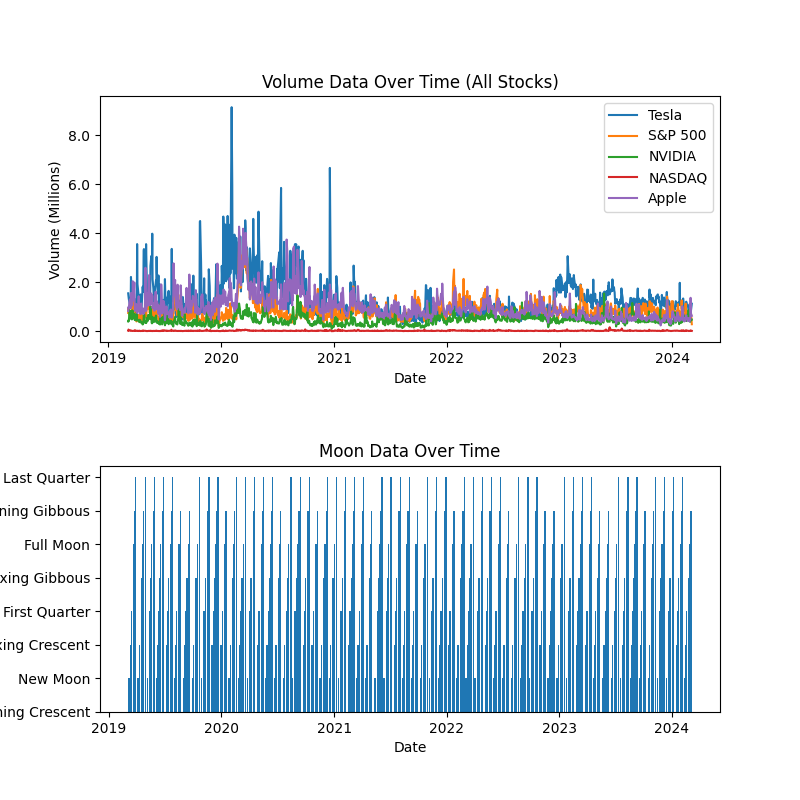
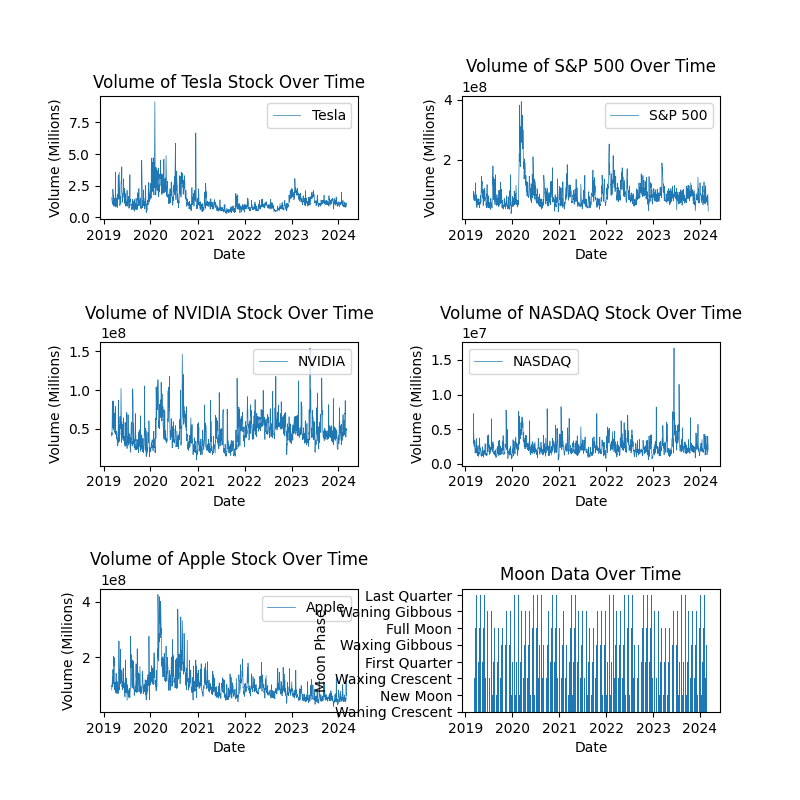
Updated the Graphs
Changed the one graph to 5 seperate volume stock graphs for easier readibility and currently working on finding the correlation between the volume of stocks and the moon phases

Changed region(s): [[0.0, 0.0625, 0.9375, 0.9375]]

diff --git a/volume_moon_correlation_visual.py b/volume_moon_correlation_visual.py
@@ -1,6 +1,17 @@
 # Visuals for the moon phases and the volume of each stock starting from 2019-01-01 - current date as a bar graph and line graph respectively
 # to look for a correlation between the volume of each stock to the moon phases to see if they relate to each other
 
+# Result from the data of any correlation:
+# 
+# 
+# 
+# 
+# 
+# 
+# 
+# 
+# 
+
 import csv
 import matplotlib.pyplot as plt
 import matplotlib.ticker as ticker
@@ -51,30 +62,54 @@ apple_dates, apple_volume = read_volume_csv_file(apple_file)
 moon_dates, moon_phases = read_moonphase_csv_file(moon_phases_file)
 
 # Create a figure with two subplots: line graph and bar graph
-fig, (ax1, ax2) = plt.subplots(2, 1, figsize=(8, 8))
+fig, ([ax1, ax2], [ax3, ax4], [ax5, ax6]) = plt.subplots(3, 2, figsize=(8, 8))
 
-# Plotting the line graph (volume data)
-ax1.plot(tesla_dates, tesla_volume, label='Tesla')
-ax1.plot(spy_dates, spy_volume, label='S&P 500')
-ax1.plot(nvidia_dates, nvidia_volume, label='NVIDIA')
-ax1.plot(nasdaq_dates, nasdaq_volume, label='NASDAQ')
-ax1.plot(apple_dates, apple_volume, label='Apple')
+# Plotting the line graph (volume data) for Tesla stock
+ax1.plot(tesla_dates, tesla_volume, label='Tesla', linewidth=0.5)
 ax1.set_xlabel('Date')
 ax1.set_ylabel('Volume (Millions)')
-ax1.set_title('Volume Data Over Time (All Stocks)')
+ax1.set_title('Volume of Tesla Stock Over Time')
 ax1.legend()
+
+# Plotting the line graph (volume data) for S&P 500 stock
+ax2.plot(spy_dates, spy_volume, label='S&P 500', linewidth=0.5)
+ax2.set_xlabel('Date')
+ax2.set_ylabel('Volume (Millions)')
+ax2.set_title('Volume of S&P 500 Over Time')
+ax2.legend()
+
+# Plotting the line graph (volume data) for NVIDIA stock
+ax3.plot(nvidia_dates, nvidia_volume, label='NVIDIA', linewidth=0.5)
+ax3.set_xlabel('Date')
+ax3.set_ylabel('Volume (Millions)')
+ax3.set_title('Volume of NVIDIA Stock Over Time')
+ax3.legend()
+
+# Plotting the line graph (volume data) for NASDAQ stock
+ax4.plot(nasdaq_dates, nasdaq_volume, label='NASDAQ', linewidth=0.5)
+ax4.set_xlabel('Date')
+ax4.set_ylabel('Volume (Millions)')
+ax4.set_title('Volume of NASDAQ Stock Over Time')
+ax4.legend()
+
+# Plotting the line graph (volume data) for Apple stock
+ax5.plot(apple_dates, apple_volume, label='Apple', linewidth=0.5)
+ax5.set_xlabel('Date')
+ax5.set_ylabel('Volume (Millions)')
+ax5.set_title('Volume of Apple Stock Over Time')
+ax5.legend()
 
 # Format y-axis labels of the line graph as millions
 ax1.yaxis.set_major_formatter(ticker.FuncFormatter(lambda x, pos: '{:.1f}'.format(x * 1e-8)))
 
 # Plotting the bar graph
-ax2.bar(moon_dates, moon_phases)
-ax2.set_xlabel('Date')
-ax2.set_ylabel('Moon Phase')
-ax2.set_title('Moon Data Over Time')
+ax6.bar(moon_dates, moon_phases)
+ax6.set_xlabel('Date')
+ax6.set_ylabel('Moon Phase')
+ax6.set_title('Moon Data Over Time')
 
 # Adjust the spacing between subplots
-plt.subplots_adjust(hspace=0.5)
+plt.subplots_adjust(hspace=1, wspace=0.4)
 
 # Save the figure
 plt.savefig("volume_plot.png")
